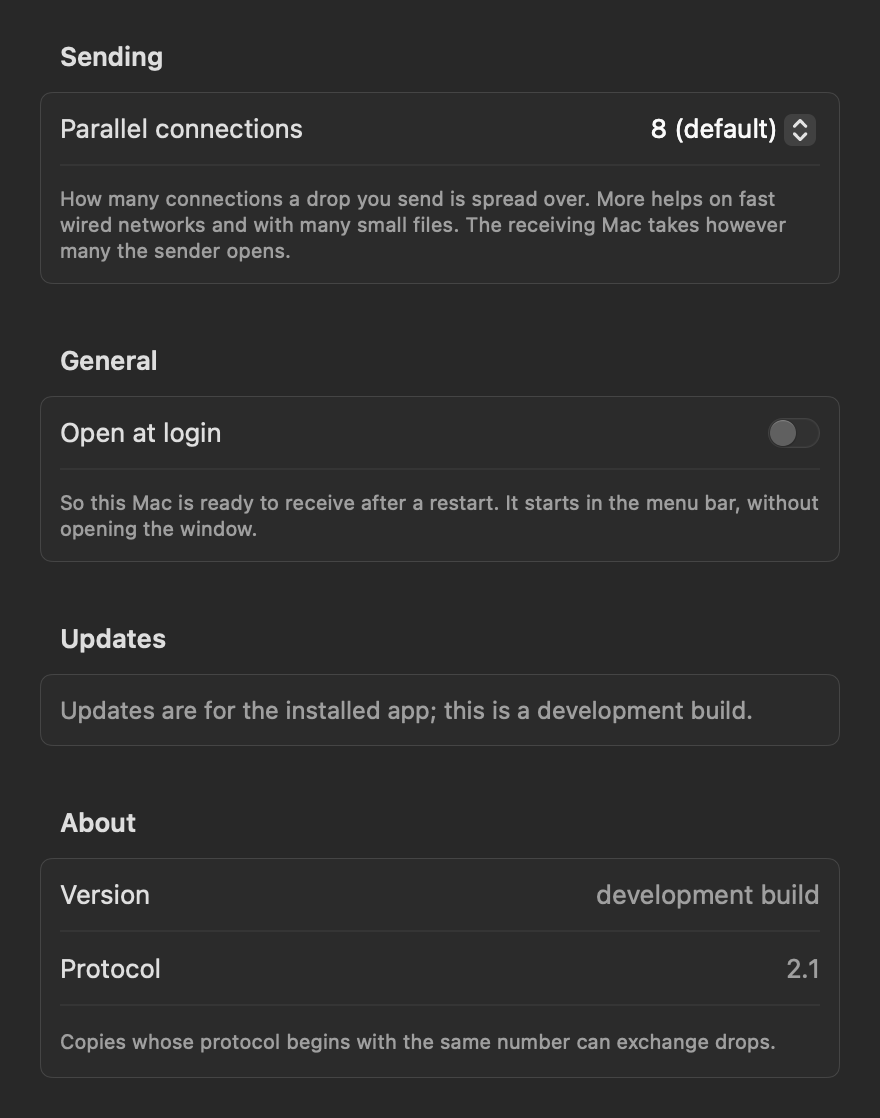
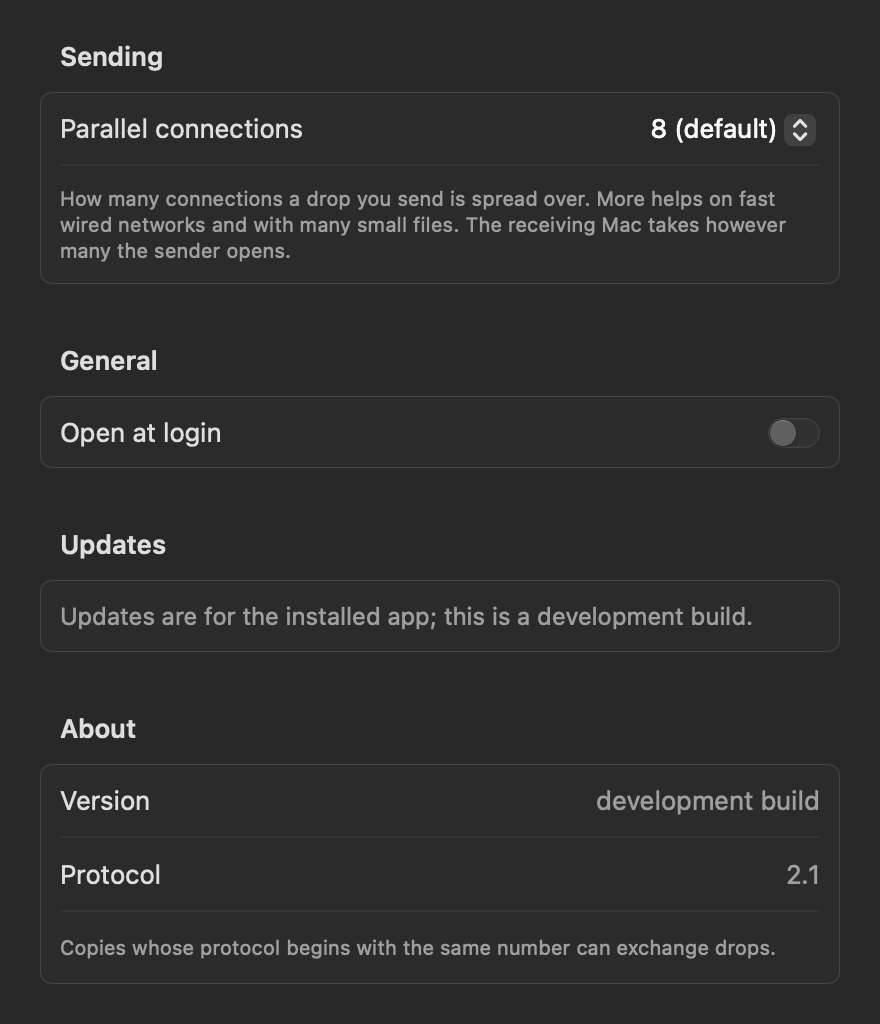
Settings: no explanation under Open at login

diff --git a/Sources/NimbusDrop/SettingsWindow.swift b/Sources/NimbusDrop/SettingsWindow.swift
@@ -32,8 +32,6 @@ struct SettingsView: View {
             Section("General") {
                 Toggle("Open at login", isOn: Binding(get: { model.openAtLogin }, set: { model.setOpenAtLogin($0) }))
                     .disabled(Bundle.main.bundleIdentifier == nil)
-                Text("So this Mac is ready to receive after a restart. It starts in the menu bar, without opening the window.")
-                    .font(.caption).foregroundStyle(.secondary)
             }
             Section("Updates") {
                 if let updater, updater.canInstall {
